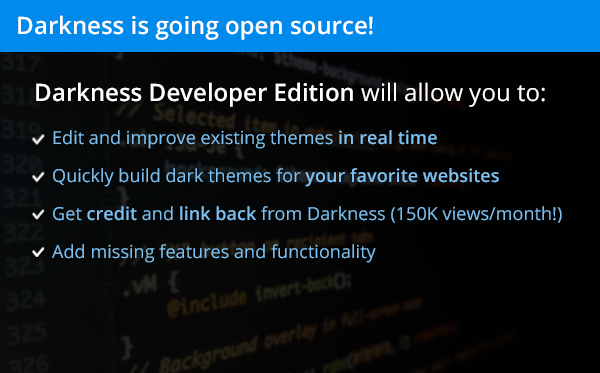
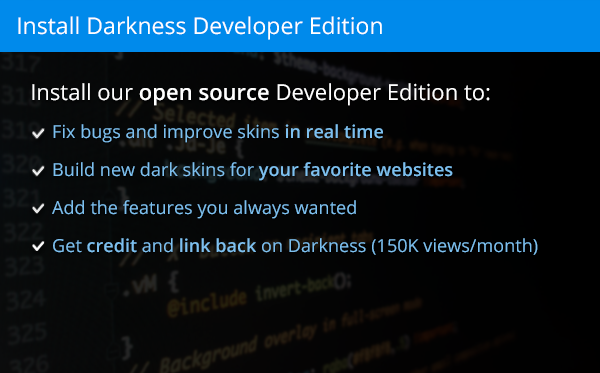
Promoting Darkness Developer Edition (GitHub) within the product

diff --git a/chrome-extension/style/settings.scss b/chrome-extension/style/settings.scss
@@ -787,7 +787,7 @@ div.drk_preview_mark {
 
 
 //----------------------------------------------------------------------------------------------------------------------------------------------------
-// JOIN DEVELOPER GROUP DIALOG
+// INSTALL DARKNESS DEVELOPERS EDITION
 //----------------------------------------------------------------------------------------------------------------------------------------------------
 div.drk_dialog.drk_join_developers {
 	div.drk_dialog_inner {
@@ -825,23 +825,23 @@ div.drk_dialog.drk_join_developers {
 
 	.drk_button_dialog_wrapper {
 		position: absolute !important;
-		bottom: 32px !important;
-		left: 113px !important;
+		bottom: 36px !important;
+		left: 128px !important;
 		background: Black !important;
 		border-radius: 4px !important;
 	}
 
 	.drk_button_dialog {
 		border-radius: 4px !important;
-		width: 330px !important;
+		width: 300px !important;
 		opacity: 1 !important;
 		margin: 0 !important;
-		font-size: 26px !important;
+		font-size: 24px !important;
 		text-align: center !important;
 		font-weight: 600 !important;
 		color: #fff !important;
 		cursor: pointer !important;
-		padding: 5px 0 5px 44px !important;
+		padding: 6px 0 6px 44px !important;
 		-webkit-font-smoothing: antialiased;
 		letter-spacing: -0.5px !important;
 		text-shadow: 0 1px 2px rgba(0, 0, 0, 0.5) !important;
@@ -851,12 +851,12 @@ div.drk_dialog.drk_join_developers {
 		position: relative;
 		i {
 			position: absolute !important;
-			left: 0 !important;
-			top: 0 !important;
-			width: 49px !important;
-			height: 49px !important;
+			left: 10px !important;
+			top: 5px !important;
+			width: 36px !important;
+			height: 36px !important;
 			opacity: 1 !important;
-			background: Transparent url("chrome-extension://__MSG_@@extension_id__/images/facebook-icon.png") no-repeat center !important;
+			background: Transparent url("chrome-extension://__MSG_@@extension_id__/images/github-icon.png") no-repeat center !important;
 			background-size: cover !important;
 		}
 		&:hover {

diff --git a/chrome-extension/html/settings.html b/chrome-extension/html/settings.html
@@ -60,13 +60,14 @@
 			<div class="drk_subtitle drk_skin_contributors_line visible">Fixes by <span class="drk_skin_contributors_list"></span></div>
 			<div class="drk_content">
 				<div class="drk_button drk_feedback_btn"><i class="icon-flag-filled"></i>Report a skinning bug</div>
-				<div class="drk_button drk_developer_help_improve "><i class="icon-code"></i>Developer? Fix the CSS</div>
+				<div class="drk_button drk_developer_fix"><i class="icon-code"></i>Developer? Help us fix the CSS</div>
 			</div>
 		</section>
 		<section class="drk_section drk_section_darkness">
 			<div class="drk_title">Darkness</div>
 			<div class="drk_content">
 				<div class="drk_button drk_upgrade_btn drk_bold"><i class="icon-plus"></i>Get Darkness for Gmail and YouTube!</div>
+				<div class="drk_button drk_developer_add"><i class="icon-code"></i>Develop skins for more websites</div>
 				<div class="drk_button drk_share_btn"><i class="icon-share"></i>Share with friends</div>
 				<div class="drk_share_placeholder"><img src="" class="drk_img_loader_small drk_invert_back"></div>
 				<div class="drk_button drk_feedback_btn"><i class="icon-chat"></i>Send feedback</div>
@@ -93,13 +94,13 @@
 		</div>
 	</div>
 
-	<!-- Dialog: Join Developers Community --->
+	<!-- Dialog: Install Darkness Developers Edition --->
 	<div class="drk_dialog drk_join_developers">
 		<div class="drk_dialog_inner">
 			<span class="drk_close"><a class="drk_icon drk_icon_close drk_dialog_close" href="javascript:void(0);"><i class="drk_icon icon-cancel"></i></a></span>
 			<div class="drk_content drk_sale">
 				<div class="drk_button_dialog_wrapper">
-					<div class="drk_button_dialog drk_inline drk_bold drk_join_developers_community_btn"><i></i>Join To Get Early Access</div>
+					<div class="drk_button_dialog drk_inline drk_bold drk_join_developers_community_btn"><i></i>Install now from GitHub</div>
 				</div>
 			</div>
 		</div>

diff --git a/chrome-extension/js/settings.js b/chrome-extension/js/settings.js
@@ -617,10 +617,18 @@ if (!DarknessSettingsLoader) {
 				$('.drk_get_pro').addClass('visible');
 			});
 
+			// Developer Button #1 ("Developer? Help us fix the CSS")
+			$('.drk_settings .drk_developer_fix').unbind('click').click(function() {
+				repEventByUser('user-action', 'dev-fix-btn-click');
+				// Close all dialogs
+				$('.drk_dialog').removeClass('visible');
+				// Open developer dialog
+				$('.drk_join_developers').addClass('visible');
+			});
 
-			// Developer button
-			$('.drk_settings .drk_developer_help_improve').unbind('click').click(function() {
-				repEventByUser('user-action', 'dev-help-improve-btn-click');
+			// Developer Button #2 ("Develop skins for more website")
+			$('.drk_settings .drk_developer_add').unbind('click').click(function() {
+				repEventByUser('user-action', 'dev-add-btn-fix');
 				// Close all dialogs
 				$('.drk_dialog').removeClass('visible');
 				// Open developer dialog
@@ -766,8 +774,13 @@ if (!DarknessSettingsLoader) {
 
 			// Developers Dialog -> "Join us" click
 			$('.drk_join_developers .drk_join_developers_community_btn').unbind('click').click(function() {
-				repEventByUser('user-action', 'dev-join-community-btn-click');
-				var url = 'https://goo.gl/zaa4Ew'; // Facebook Darkness Developers Community
+				repEventByUser('user-action', 'dev-dialog-github-click');
+				var url;
+				if (ENVIRONMENT == 'development') {
+					url = 'https://goo.gl/zTEwPP'; // CONTRIBUTING.md on GitHub
+				} else {
+					url = 'https://goo.gl/ECly1c'; // Darkness on GitHub
+				}
 				var win = window.open(url, '_blank');
 				win.focus();
 			});

diff --git a/README.md b/README.md
@@ -4,7 +4,10 @@
 
 **Darkness** is a Chrome extension that provides **dark themes** for popular websites such as Google, Facebook, Gmail and YouTube.
 
-Using dark themes reduces the eye strain and fatigue caused by a bright screen, helps you sleep faster and better at night, and generally makes you awesome :)
+Using dark themes reduces the eye strain and fatigue caused by a bright screen, helps you sleep faster and better at night, and generally makes you awesome!
+
+Please [join our developers community on Facebook](https://www.facebook.com/groups/darkness-developers) to discuss this project and ask questions.
+
 
 <div style="text-align:center">
 <img alt="Screenshot" src="https://raw.githubusercontent.com/liorgrossman/darkness/master/assets/documentation/darkness-screenshot.png">
